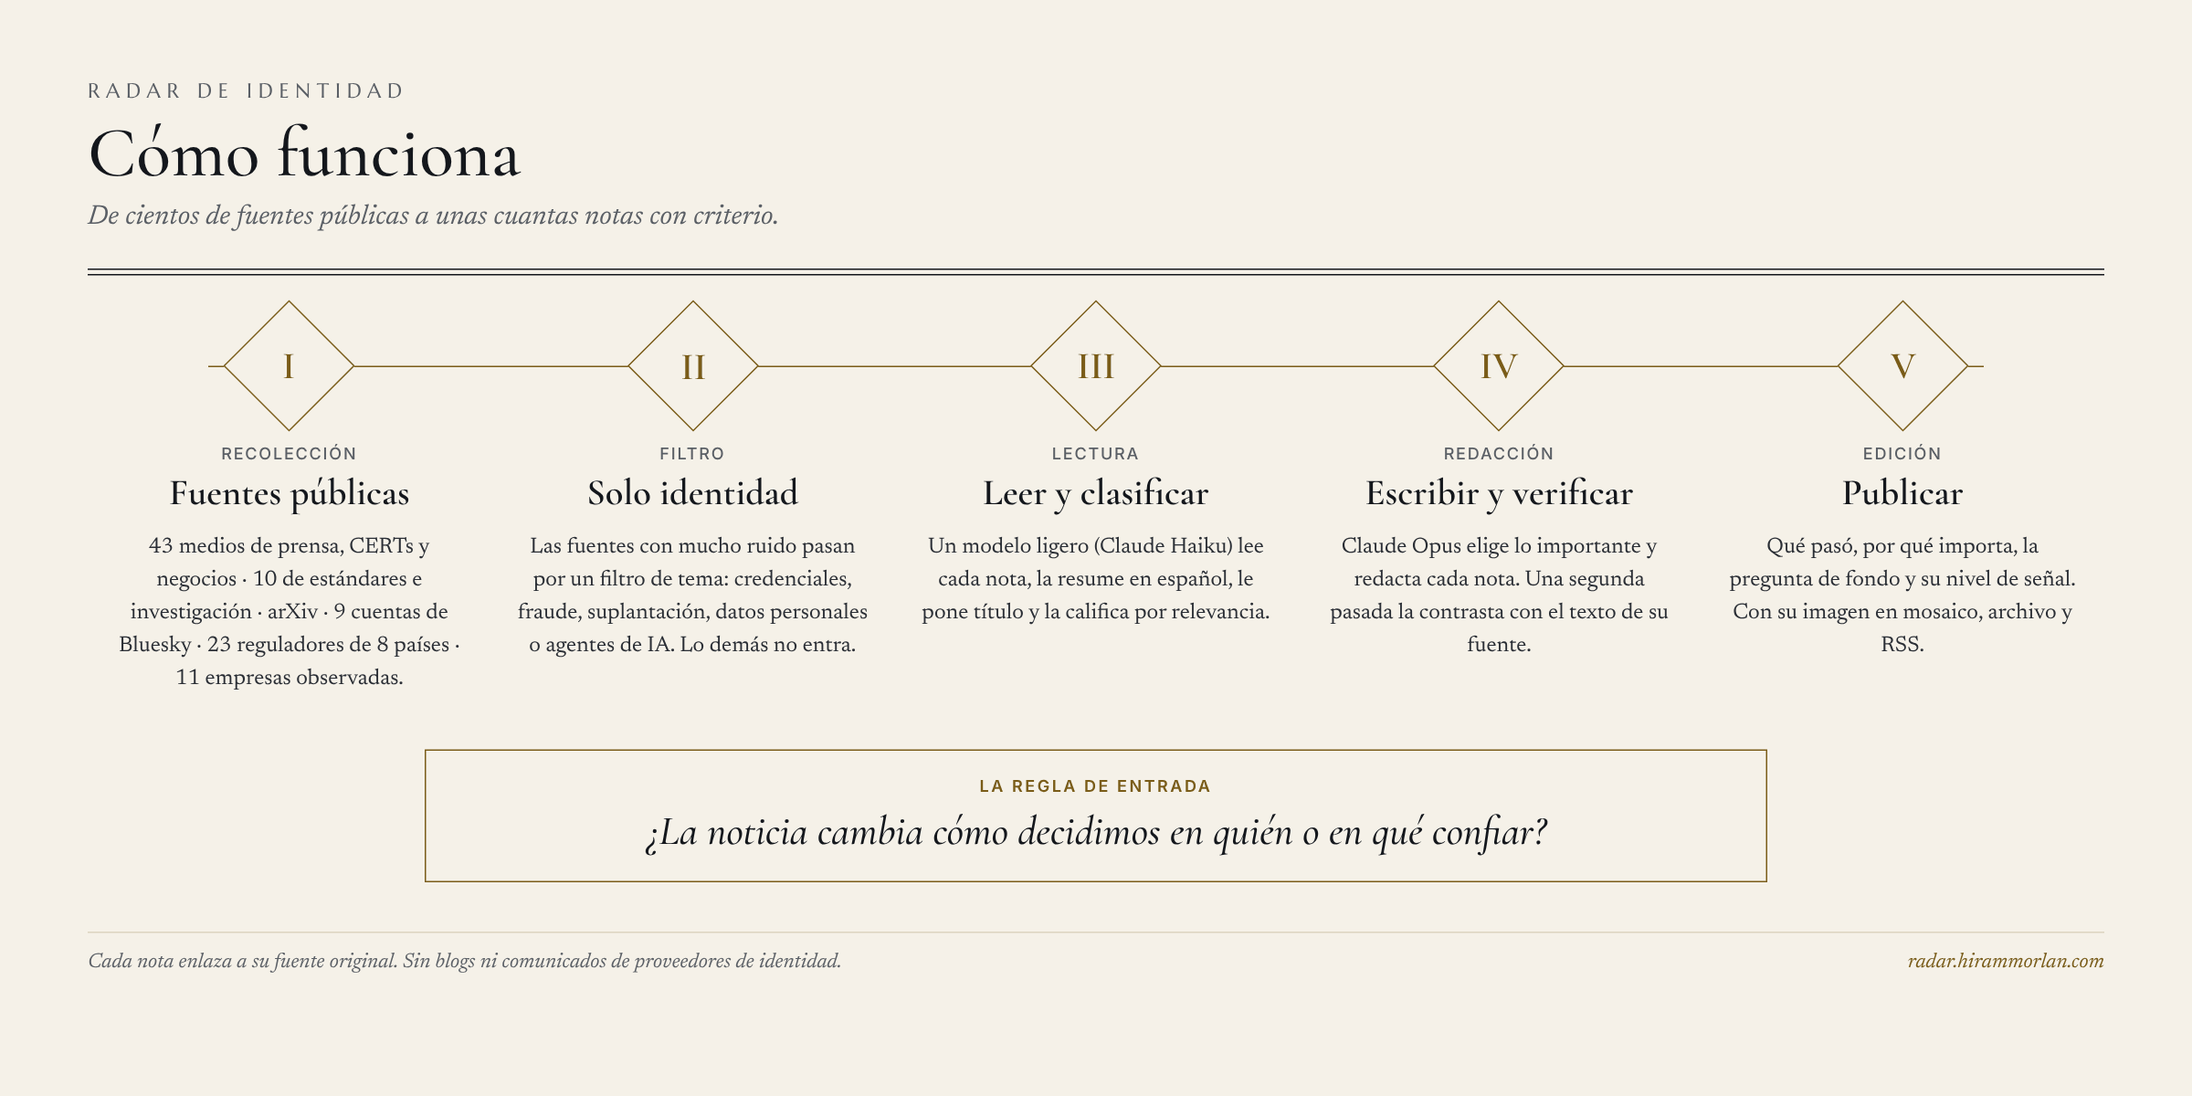
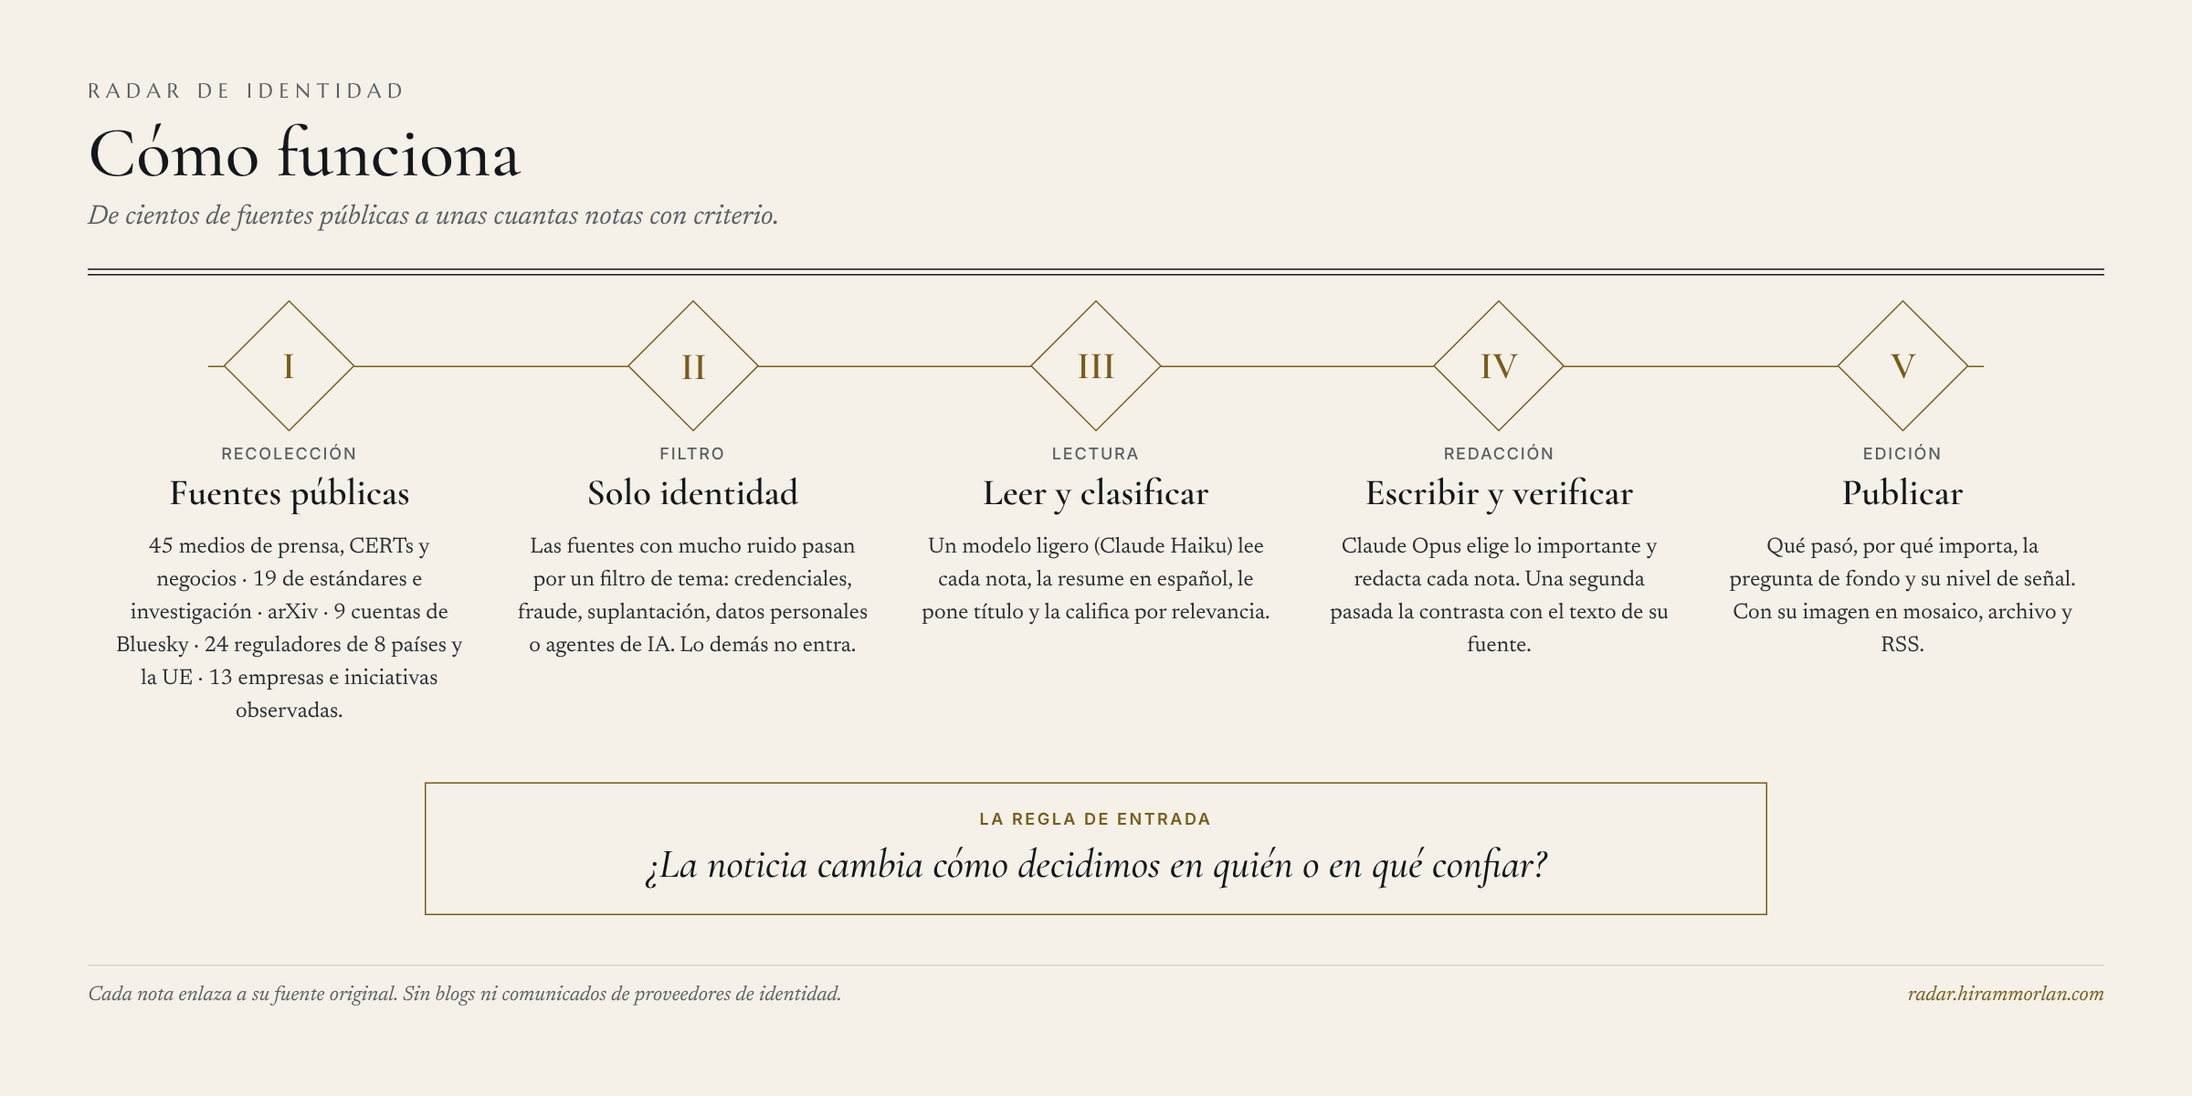
Fuentes: fundaciones y estándares de agentes e identidad
- Investigación y estándares (filtrados): DIF, blog de Model Context Protocol,
  AGNTCY, OWASP Gen AI Security Project, CoSAI, OpenWallet Foundation; IETF
  Web Bot Auth, SPICE y SCIM. El filtro=identidad ahora también aplica aquí.
- Por Google News: protocolos de agentes (ANS, Agentic AI Foundation, A2A, AGNTCY,
  MCP), cartera europea (EUDI, eIDAS) y ENISA; búsquedas en inglés para UE y global.
- Se descartan siempre los comunicados de agencias (GlobeNewswire, PR Newswire...).
- ID Tech (prensa del sector, filtrada). Diagramas con las cifras nuevas.

Claude-Session: https://claude.ai/code/session_01JrJSoux1GnVouVjAFfqAR6

diff --git a/docs/diagramas/arquitectura.html b/docs/diagramas/arquitectura.html
@@ -43,8 +43,8 @@
 
   <div class="fila"><div class="fase"><span class="romano">1</span><span class="label">Recolección</span></div>
     <div class="riel"><div class="cajas c3">
-      <div class="caja"><div class="titulo">Noticias</div><p class="texto">43 feeds de prensa, CERTs y negocios (los ruidosos con filtro de identidad) · 23 reguladores de 8 países · 11 empresas observadas · seguidor de enlaces.</p><span class="modelo">Haiku 5.5</span> <span class="modelo sin">Filtro sin modelo</span></div>
-      <div class="caja"><div class="titulo">Investigación y estándares</div><p class="texto">arXiv cs.CR · NIST, IETF, OpenID Foundation, W3C, UK NCSC · análisis de autores independientes.</p><span class="modelo sin">Sin modelo</span></div>
+      <div class="caja"><div class="titulo">Noticias</div><p class="texto">45 feeds de prensa, CERTs, negocios y fundaciones (los ruidosos con filtro de identidad) · 24 reguladores de 8 países y la UE · 13 empresas e iniciativas observadas · seguidor de enlaces.</p><span class="modelo">Haiku 5.5</span> <span class="modelo sin">Filtro sin modelo</span></div>
+      <div class="caja"><div class="titulo">Investigación y estándares</div><p class="texto">arXiv cs.CR · NIST, IETF, OpenID Foundation, W3C, UK NCSC, DIF, MCP, AGNTCY, OWASP Gen AI, CoSAI · análisis de autores independientes.</p><span class="modelo sin">Sin modelo</span></div>
       <div class="caja"><div class="titulo">Redes</div><p class="texto">9 cuentas de Bluesky (periodistas y organizaciones independientes) y Mastodon. Solo posts propios.</p><span class="modelo sin">Sin modelo</span></div>
     </div></div></div>
 

diff --git a/frontend/src/routes/about/+page.svelte b/frontend/src/routes/about/+page.svelte
@@ -63,11 +63,11 @@
 			<summary class="t-ui !text-[12px] text-oro cursor-pointer">Ver la arquitectura completa</summary>
 			<figure class="mt-4 -mx-2 sm:mx-0">
 				<a href="/img/arquitectura-claro.webp" class="block dark:hidden" target="_blank" rel="noopener">
-					<img src="/img/arquitectura-claro.webp" width="2400" height="2595" loading="lazy" class="w-full h-auto border border-filete"
+					<img src="/img/arquitectura-claro.webp" width="2400" height="2628" loading="lazy" class="w-full h-auto border border-filete"
 						alt="Arquitectura del pipeline por fases, con el modelo de cada paso." />
 				</a>
 				<a href="/img/arquitectura-oscuro.webp" class="hidden dark:block" target="_blank" rel="noopener">
-					<img src="/img/arquitectura-oscuro.webp" width="2400" height="2595" loading="lazy" class="w-full h-auto border border-filete"
+					<img src="/img/arquitectura-oscuro.webp" width="2400" height="2628" loading="lazy" class="w-full h-auto border border-filete"
 						alt="Arquitectura del pipeline por fases, con el modelo de cada paso." />
 				</a>
 				<figcaption class="t-ui !normal-case !tracking-normal !text-[12px] text-tinta-suave mt-2">

diff --git a/docs/diagramas/como-funciona.html b/docs/diagramas/como-funciona.html
@@ -36,7 +36,7 @@
       <div class="nodo"><span class="romano">I</span></div>
       <span class="label">Recolección</span>
       <div class="titulo">Fuentes públicas</div>
-      <p class="texto">43 medios de prensa, CERTs y negocios · 10 de estándares e investigación · arXiv · 9 cuentas de Bluesky · 23 reguladores de 8 países · 11 empresas observadas.</p>
+      <p class="texto">45 medios de prensa, CERTs y negocios · 19 de estándares e investigación · arXiv · 9 cuentas de Bluesky · 24 reguladores de 8 países y la UE · 13 empresas e iniciativas observadas.</p>
     </div>
     <div class="paso">
       <div class="nodo"><span class="romano">II</span></div>

diff --git a/agents/gatherers/regulator_sources.py b/agents/gatherers/regulator_sources.py
@@ -51,6 +51,8 @@ COUNTRY_NAMES = {
     "CR": "Costa Rica",
     "GT": "Guatemala",
     "US": "EE. UU.",
+    "EU": "Unión Europea",
+    "GLOBAL": "Global",
     "LATAM": "Latinoamérica",
 }
 
@@ -61,7 +63,10 @@ QUERY_KEYWORDS = (
     'OR "datos personales" OR "inteligencia artificial" OR credenciales)'
 )
 
-# Consulta en inglés (reguladores de EE. UU.).
+# Países y ámbitos que se buscan en inglés (Google News de EE. UU.).
+ENGLISH_COUNTRIES = {"US", "EU", "GLOBAL"}
+
+# Consulta en inglés (reguladores de EE. UU. y la UE).
 QUERY_KEYWORDS_EN = (
     '(identity OR "identity theft" OR impersonation OR fraud OR scam OR phishing OR '
     'authentication OR password OR biometric OR deepfake OR "account takeover" OR '
@@ -76,7 +81,8 @@ TOPIC_RE = re.compile(
     r"robo de cuenta|verificaci[oó]n|deepfake|criptograf|agentes? de ia|\bIA\b|\bmuse\b|"
     r"reconocimiento facial|passkey|"
     r"identity|impersonat|fraud|scam|authenticat|password|biometric|account takeover|"
-    r"data broker|personal data|privacy|artificial intelligence|\bAI\b|cyber",
+    r"data broker|personal data|privacy|artificial intelligence|\bAI\b|cyber|"
+    r"agentic|\bai agents?\b|verifiable credential|digital wallet|identity wallet|\beudi\b",
     re.I,
 )
 
@@ -168,6 +174,19 @@ def load_empresas(config_dir: str) -> List[RegulatorSpec]:
     return parse_empresas(path.read_text(encoding="utf-8").splitlines())
 
 
+# Agencias de comunicados de prensa: son comunicados de empresas tal cual (política
+# agnóstica), no cobertura independiente. Google News las pone tras " - ".
+PRESS_WIRE_RE = re.compile(
+    r"\s-\s(?:GlobeNewswire|PR Newswire|PRNewswire|Business Wire|BusinessWire|Accesswire|"
+    r"ACCESS Newswire|EIN Presswire|Newsfile|PRWeb|Cision|Morningstar)\b[^-]*$",
+    re.I,
+)
+
+
+def is_press_wire(title: str) -> bool:
+    return bool(PRESS_WIRE_RE.search(title or ""))
+
+
 def clean_title(title: str) -> str:
     """Drop the ' - Source name' suffix Google News appends."""
     return re.sub(r"\s+-\s+[^-]{2,80}$", "", title or "").strip()
@@ -187,15 +206,15 @@ def is_evergreen(title: str, spec: RegulatorSpec) -> bool:
 
 
 def search_url(spec: RegulatorSpec, days: int) -> str:
+    english = spec.country in ENGLISH_COUNTRIES
     if spec.query:
         # Sin palabras clave: con ellas Google ordena por relevancia y devuelve notas
         # de hace meses. Solo el nombre y la ventana; el tema lo filtra TOPIC_RE.
         query = f"({spec.query}) when:{max(days, 1)}d"
     else:
-        keywords = QUERY_KEYWORDS_EN if spec.country == "US" else QUERY_KEYWORDS
+        keywords = QUERY_KEYWORDS_EN if english else QUERY_KEYWORDS
         query = f"site:{spec.site} {keywords} when:{max(days, 1)}d"
-    locale = ("&hl=en-US&gl=US&ceid=US:en" if spec.country == "US" and not spec.query
-              else "&hl=es-419&gl=MX&ceid=MX:es-419")
+    locale = "&hl=en-US&gl=US&ceid=US:en" if english else "&hl=es-419&gl=MX&ceid=MX:es-419"
     return f"{GOOGLE_NEWS_SEARCH}?q={urllib.parse.quote(query)}{locale}"
 
 
@@ -386,7 +405,7 @@ def collect(
             if not (start <= published <= end):
                 continue
             title = entry.get("title", "")
-            if is_evergreen(title, spec) or not TOPIC_RE.search(clean_title(title)):
+            if is_evergreen(title, spec) or is_press_wire(title) or not TOPIC_RE.search(clean_title(title)):
                 continue
             url = decode_google_news_url(entry.get("link", ""), session)
             time.sleep(pause)

diff --git a/tests/fuentes_identidad_test.py b/tests/fuentes_identidad_test.py
@@ -20,6 +20,7 @@ class IdentityFilterTest(unittest.TestCase):
             "Multiples vulnérabilités dans le greffon OpenID Connect",
             "Airbnb lanzará un agente de viajes con inteligencia artificial",
             "Nueva ley de protección de datos personales en Chile",
+            "DIF publishes a verifiable credentials interop profile",
         ]:
             self.assertTrue(identity_filter.matches(text), text)
 
@@ -152,6 +153,16 @@ class EmpresasYReguladoresTest(unittest.TestCase):
             got = rs.collect([spec], datetime(2026, 11, 10), datetime(2026, 11, 12),
                              session=session, pause=0, max_per_spec=4)
         self.assertEqual(len(got), 4)
+
+    def test_press_wires_and_english_watches(self):
+        from urllib.parse import urlparse, parse_qs
+        from agents.gatherers import regulator_sources as rs
+        self.assertTrue(rs.is_press_wire("Acme Joins Agentic AI Foundation - GlobeNewswire"))
+        self.assertTrue(rs.is_press_wire("Acme launches agent ID - PR Newswire"))
+        self.assertFalse(rs.is_press_wire("Linux Foundation launches Agent Name Service - IT Brief Australia"))
+        [watch] = rs.parse_empresas(['GLOBAL | Protocolos | "Agent Name Service"'])
+        self.assertIn("gl=US", rs.search_url(watch, 2))
+        self.assertTrue(rs.TOPIC_RE.search("Linux Foundation launches Agent Name Service for AI agents"))
 
     def test_config_files_parse(self):
         from agents.gatherers import regulator_sources as rs

diff --git a/agents/gatherers/research_gatherer.py b/agents/gatherers/research_gatherer.py
@@ -24,6 +24,7 @@ from typing import List, Optional
 import feedparser
 import requests
 
+from . import identity_filter
 from ..base import BaseGatherer, CollectedItem, step_label_for_url
 from ..html_text import html_to_text
 from .arxiv_oai import ArxivOAIHarvester
@@ -512,6 +513,7 @@ class ResearchGatherer(BaseGatherer):
         # Accept either a FeedSpec or a plain URL for backward compatibility.
         feed_url = getattr(feed, 'url', feed)
         use_proxy = getattr(feed, 'use_proxy', None)
+        filtro = getattr(feed, 'filtro', None)
 
         try:
             logger.debug(
@@ -586,6 +588,13 @@ class ResearchGatherer(BaseGatherer):
 
                     if is_trend_feed and not self._is_trend_ai_relevant(title, content_text, tags):
                         trend_filtered += 1
+                        continue
+
+                    # Fuentes que publican de todo (fundaciones, organismos): solo
+                    # entradas con tema de identidad (directiva filtro=identidad).
+                    if filtro == 'identidad' and not identity_filter.matches(
+                        f"{title} {' '.join(tags)} {content_text[:1500]}"
+                    ):
                         continue
 
                     # Handle author as list (some feeds)

diff --git a/agents/gatherers/identity_filter.py b/agents/gatherers/identity_filter.py
@@ -34,7 +34,8 @@ _TERMS = [
     r"fraud", r"estafa", r"arnaque", r"\bscams?\b", r"robo de datos", r"filtraci[oó]n de datos",
     r"data breach", r"fuite de donn",
     # Verificación, regulación e identidad digital
-    r"\bkyc\b", r"biometr", r"reconocimiento facial", r"facial recogn", r"reconnaissance faciale",
+    r"verifiable credential", r"credenciales? verificables?", r"decentrali[sz]ed identi",
+    r"identificador(?:es)? descentralizado", r"\bkyc\b", r"biometr", r"reconocimiento facial", r"facial recogn", r"reconnaissance faciale",
     r"verificaci[oó]n de (?:identidad|edad)", r"identity verification", r"age verification",
     r"v[ée]rification d.(?:identit|[aâ]ge)", r"eidas", r"digital wallet", r"identity wallet",
     r"cartera digital", r"\bcurp\b", r"firma electr", r"signature [ée]lectronique",

diff --git a/docs/fuentes.md b/docs/fuentes.md
@@ -8,18 +8,19 @@ Verificado con `scripts/check_feeds.py`: cada fuente respondió 200 y publicó e
 |---|---|---|
 | Prensa de seguridad | The Record, Krebs on Security, Dark Reading, SecurityWeek, BleepingComputer; **desde 2026-11-11:** TechCrunch Security, 404 Media, CyberScoop, The Register (seguridad), Wired (seguridad), CSO Online, Infosecurity Magazine, Cybersecurity Dive | ~42 |
 | CERTs nacionales (nuevo) | CERT-FR (filtrado), INCIBE-CERT (filtrado) | ~1 tras el filtro |
-| Identidad | Biometric Update, FIDO Alliance | ~10 |
+| Identidad | Biometric Update, ID Tech (filtrada, desde 2026-11-12), FIDO Alliance | ~11 |
 | Español (LATAM y España) | Ciberseguridad LATAM, DPL News, Expansión Tecnología, iupana; **desde 2026-11-11, filtradas:** EL PAÍS, elDiario.es y ABC (Tecnología), EL TIEMPO (Colombia), LA NACION (Argentina), Bloomberg Línea | ~20 + ~1 tras el filtro |
 | Banca, pagos y agentes en EE. UU. (2026-11-11) | American Banker, Banking Dive, Payments Dive, The Verge (IA); PYMNTS y Axios filtradas | ~25 |
 | Gobierno de EE. UU. (2026-11-11) | CISA avisos y noticias (filtradas), FBI IC3 (avisos al público) | ~1 |
 | Negocios LatAm (2026-11-11, filtradas) | Expansión Empresas, El Economista, Portafolio, Gestión, Diario Financiero, El Financiero (Costa Rica), Just Retail Latam | ~1 tras el filtro |
-| Fundaciones de código abierto (2026-11-12) | Linux Foundation, comunicados (filtrado): estándares abiertos de agentes como Agent Name Service, AGNTCY o A2A | ~1/semana tras el filtro |
+| Fundaciones y estándares de agentes e identidad (2026-11-12, todos filtrados) | Linux Foundation (comunicados), Decentralized Identity Foundation, Model Context Protocol (blog oficial), AGNTCY, OWASP Gen AI Security Project, Coalition for Secure AI, OpenWallet Foundation; IETF Web Bot Auth, SPICE y SCIM | ~3/semana tras el filtro |
+| Iniciativas sin feed, por Google News (2026-11-12) | Protocolos e identidad de agentes (Agent Name Service, Agentic AI Foundation, A2A, AGNTCY, MCP) y la cartera europea de identidad digital (EUDI, eIDAS), en `config/empresas.txt`; ENISA en `config/regulators.txt` | según la semana |
 | Estándares y gobierno | NIST Cybersecurity Insights, NIST CSRC (borradores), IETF OAuth WG, IETF WIMSE WG, OpenID Foundation, W3C, UK NCSC | ~1.5 |
 | Redes | Brian Krebs (Mastodon); **Bluesky desde 2026-11-11:** Zack Whittaker, Lorenzo Franceschi-Bicchierai, 404 Media, EFF, Access Now, noyb, Derechos Digitales, R3D, Heather Flanagan | ~10 |
 | Análisis de autor | Juan Pablo Castro (Cybersecurity Compass), Heather Flanagan (Spherical Cow), Mike Jones (self-issued.info) | ~0.3 |
 | Investigación | arXiv cs.CR | ~35 |
 
-**Total: 54 feeds + 9 cuentas de Bluesky + arXiv cs.CR + 23 reguladores + 11 empresas observadas.** En noticias, ~100 entradas/día antes del triage (el 4 nov eran ~45). Medido con 7 días, los 15 feeds del 11 nov (segunda ronda) aportan ~35 entradas por semana después del filtro.
+**Total: 64 feeds + 9 cuentas de Bluesky + arXiv cs.CR + 24 reguladores + 13 empresas e iniciativas observadas.** En noticias, ~100 entradas/día antes del triage (el 4 nov eran ~45). Medido con 7 días, los 15 feeds del 11 nov (segunda ronda) aportan ~35 entradas por semana después del filtro.
 
 **Política agnóstica (2026-11-04):** no se usan blogs de proveedores (Okta, Auth0, Ping, Jumio y similares). Las empresas solo entran a través de fuentes independientes. El 2026-11-12 se retiraron WeLiveSecurity (blog de ESET) y Una al Día (Hispasec): son empresas de seguridad y la política excluye a proveedores de identidad, seguridad, fraude o verificación como fuente.
 
@@ -28,6 +29,8 @@ Verificado con `scripts/check_feeds.py`: cada fuente respondió 200 y publicó e
 **Bluesky (2026-11-11):** solo posts propios (sin respuestas ni reposts, porque un repost trae cuentas que no pasaron la revisión), máximo 10 por cuenta y día (`BLUESKY_MAX_POSTS_PER_HANDLE`). Los enlaces completos (facetas y tarjeta) se agregan al contenido para que el seguidor de enlaces llegue a la nota original. Las organizaciones de derechos digitales tienen postura: se citan por nombre, como el análisis de autor, no como noticia.
 
 **Empresas observadas (2026-11-11):** `config/empresas.txt` sigue por nombre a empresas que adoptan identidad digital o agentes: Meta (Muse), Mercado Libre y Mercado Pago, Coppel y BanCoppel, Liverpool, Aeroméxico, Volaris, Davivienda, Banco de Costa Rica, Banco Industrial, Banrural y Falabella. Mismo recolector que los reguladores (Google News), pero sin `site:` y sin palabras clave en la consulta (con ellas Google devuelve notas de hace meses): se buscan las notas de los últimos días y solo pasan los títulos que tocan identidad, fraude, datos personales, biometría o agentes. Máximo 4 por empresa y corrida. Entran como sujeto de la nota, nunca como fuente de análisis (ver CLAUDE.md). Se descartaron los scrapers de salas de prensa corporativas: frágiles (Liverpool publica en `.docx`, Aeroméxico muestra páginas de mantenimiento) y casi todo ruido. Medido con 7 días: 6 notas (4 sobre Muse en México, 2 de estafas que suplantan a Mercado Libre); Coppel, Davivienda y los bancos de Centroamérica no tuvieron notas de identidad esa semana.
+
+**Comunicados por agencia (2026-11-12):** en todo lo que llega por Google News (reguladores, empresas e iniciativas) se descartan los títulos de agencias de comunicados (GlobeNewswire, PR Newswire, Business Wire y similares): son comunicados de empresas tal cual, no cobertura independiente.
 
 **Descartadas:** El Financiero (sin notas de identidad), CISA y El Economista (403), feed antiguo de ESET (dominio muerto), Microsoft Entra (inactivo desde hace más de un año), OWASP (inactivo desde junio). En la ronda del 2026-11-11: Help Net Security y Finextra (muchas notas de producto y comunicados de empresas), Xataka, Omicrono y Clarín (casi nada de identidad), SC Media (feed vacío), Infobae (feed vacío), Forbes México (403).
 

diff --git a/CLAUDE.md b/CLAUDE.md
@@ -99,8 +99,8 @@ GOOGLE_API_KEY=... python3 scripts/check_image_model.py --generate   # una image
 | Fuentes de noticias | `config/rss_feeds.txt` |
 | Investigación y estándares | `config/research_feeds.txt` |
 | arXiv | `agents/gatherers/research_gatherer.py` (`CATEGORIES`, hoy solo `cs.CR`) |
-| Reguladores sin RSS (MX, ES, CO, AR, CL, PE, CR, EE. UU.) | `config/regulators.txt` → `agents/gatherers/regulator_sources.py` (página de prensa directa o Google News; vista previa: `python3 -m agents.gatherers.regulator_sources --hours 72`) |
-| Empresas observadas (bancos, retail, aerolíneas, plataformas) | `config/empresas.txt`, mismo recolector por Google News (vista previa: `python3 -m agents.gatherers.regulator_sources --empresas --hours 168`) |
+| Reguladores sin RSS (MX, ES, CO, AR, CL, PE, CR, EE. UU., UE) | `config/regulators.txt` → `agents/gatherers/regulator_sources.py` (página de prensa directa o Google News; vista previa: `python3 -m agents.gatherers.regulator_sources --hours 72`) |
+| Empresas e iniciativas observadas (bancos, retail, aerolíneas, plataformas, protocolos de agentes, cartera europea) | `config/empresas.txt`, mismo recolector por Google News (vista previa: `python3 -m agents.gatherers.regulator_sources --empresas --hours 168`) |
 | Filtro previo de identidad para fuentes ruidosas | Directiva `filtro=identidad` en `config/rss_feeds.txt` → `agents/gatherers/identity_filter.py` |
 | Mastodon y Bluesky | `config/mastodon_accounts.txt`, `config/bluesky_accounts.txt` |
 | X y Reddit | Desactivados (APIs de pago) |
